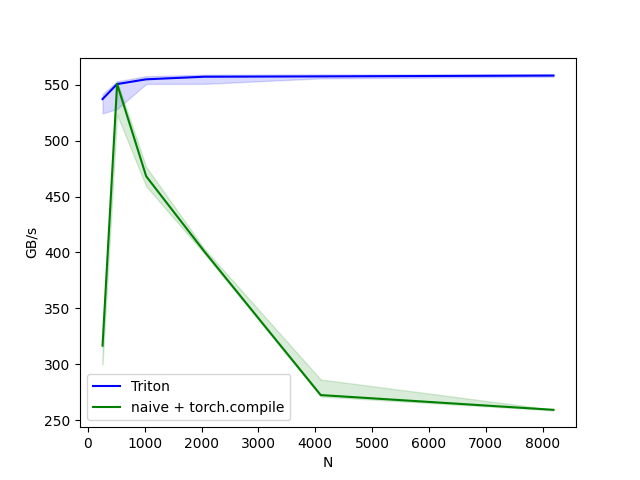
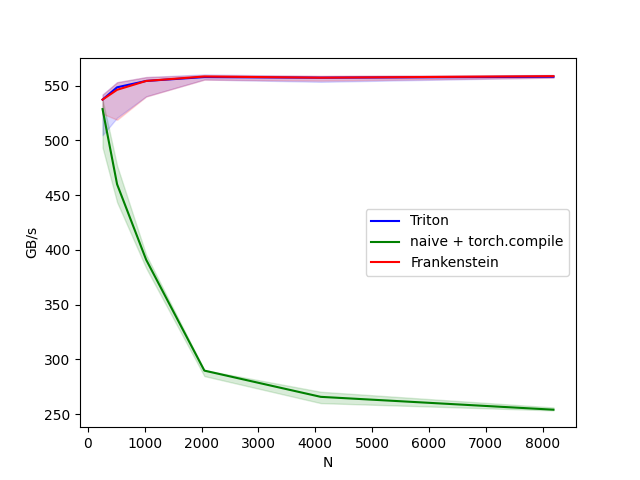
resid minimally functions. saves 140MB of vram but adds 10ms per step. need to figure out how to do a frankenstein version that saves both

diff --git a/benchmarks/results.html b/benchmarks/results.html
@@ -1,0 +1,6 @@
+<html><body>
+<image src="resid_fwd_fp16.png"/>
+<image src="resid_fwd_fp32.png"/>
+<image src="resid_bwd_fp16.png"/>
+<image src="resid_bwd_fp32.png"/>
+</body></html>

diff --git a/kernels/resid.py b/kernels/resid.py
@@ -9,6 +9,9 @@ import torch.nn.functional as F
 import torch._dynamo
 torch._dynamo.config.cache_size_limit = 64  # Increase from default of 8
 
+# fixes issue w frankenstein not keeping autograd graph during benchmark
+torch._functorch.config.donated_buffer=False
+
 import triton
 import triton.language as tl
 
@@ -16,7 +19,10 @@ from torch.library import triton_op, wrap_triton
 
 DEVICE = torch.device(f'cuda:{torch.cuda.current_device()}')
 
-from cos_norm import cosine_norm_forward_naive, cosine_norm_backward_naive
+try:
+    from .cos_norm import cosine_norm_forward_naive, cosine_norm_backward_naive
+except Exception as e:
+    from cos_norm import cosine_norm_forward_naive, cosine_norm_backward_naive
 
 @torch.compile
 def resid_fwd_naive(h, h_eigen, alpha):
@@ -44,25 +50,28 @@ def resid_bwd_naive(h, h_eigen, alpha, grad_output):
         grad_h_eigen: gradient for h_eigen
         grad_alpha: gradient for alpha
     """
-    with torch.no_grad():
-        # Forward pass computations we need
-        h_eigen_normed = cosine_norm_forward_naive(h_eigen)
-        residual = h + alpha * (h_eigen_normed - h)
-        
-        # Backward pass through the final normalization
-        grad_residual = cosine_norm_backward_naive(residual, grad_output)
-        
-        # Gradients for the residual connection components
-        grad_h = grad_residual * (1 - alpha)
-        grad_h_eigen_normed = grad_residual * alpha
-        
-        # Backward pass through the first normalization (h_eigen)
-        grad_h_eigen = cosine_norm_backward_naive(h_eigen, grad_h_eigen_normed)
-        
-        # Compute gradient for alpha - reshape to match alpha's shape (N)
-        grad_alpha = torch.sum(grad_residual * (h_eigen_normed - h), dim=0)
+    # Forward pass computations we need
+    h_eigen_normed = cosine_norm_forward_naive(h_eigen)
+    residual = h + alpha * (h_eigen_normed - h)
+    
+    # Backward pass through the final normalization
+    grad_residual = cosine_norm_backward_naive(residual, grad_output)
+    
+    # Gradients for the residual connection components
+    grad_h = grad_residual * (1 - alpha)
+    grad_h_eigen_normed = grad_residual * alpha
+    
+    # Backward pass through the first normalization (h_eigen)
+    grad_h_eigen = cosine_norm_backward_naive(h_eigen, grad_h_eigen_normed)
+    
+    # Compute gradient for alpha - reshape to match alpha's shape (N)
+    grad_alpha = torch.sum(grad_residual * (h_eigen_normed - h), dim=0)
     
     return grad_h, grad_h_eigen, grad_alpha
+
+
+
+
 
 
 @triton.jit
@@ -107,7 +116,7 @@ sram_per_sm = properties["max_shared_mem"]
 #@torch.compile(fullgraph=True)
 @triton_op("mylib::resid_fwd_triton", mutates_args={})
 def resid_fwd_triton(h: torch.Tensor, h_eigen: torch.Tensor, alpha: torch.Tensor) -> torch.Tensor:
-    assert all([x.device == DEVICE for x in [h, h_eigen, alpha]])
+    #assert all([x.device == DEVICE for x in [h, h_eigen, alpha]])
     assert h.shape == h_eigen.shape
     assert h.stride() == h_eigen.stride()
     assert alpha.shape[0] == h.shape[-1]
@@ -274,6 +283,63 @@ resid_fwd_triton.register_autograd(resid_bwd_triton, setup_context=resid_bwd_tri
 
 
 
+
+@triton_op("mylib::resid_fwd_frankenstein", mutates_args={})
+def resid_fwd_frankenstein(h: torch.Tensor, h_eigen: torch.Tensor, alpha: torch.Tensor) -> torch.Tensor:
+    #assert all([x.device == DEVICE for x in [h, h_eigen, alpha]])
+    assert h.shape == h_eigen.shape
+    assert h.stride() == h_eigen.stride()
+    assert alpha.shape[0] == h.shape[-1]
+    M, N = h.reshape(-1, h.shape[-1]).shape
+
+    # this kernel is designed for normalizing vectors that fit in SRAM
+    max_entries = sram_per_sm // h.element_size()
+    block_size = triton.next_power_of_2(N)
+    assert max_entries >= block_size, f"cosine norm kernel only supports vectors up to {max_entries}"
+    # H100s have 256kb of SRAM per SM so this would fit a model dimension of 64 thousand at fp32, plenty
+
+    # pre-allocate output
+    out = torch.empty_like(h)
+
+    wrap_triton(resid_fwd_kernel)[(M,)](
+        h, h_eigen, alpha, out,
+        h.stride(-2), h.stride(-1),
+        N,
+        BLOCK_SIZE=block_size
+    )
+
+    return out
+
+def resid_bwd_frankenstein(ctx, dLdout):
+    h, h_eigen, alpha, out = ctx.saved_tensors
+    
+    #with torch.no_grad():
+    # Forward pass computations we need
+    h_eigen_normed = cosine_norm_forward_naive(h_eigen)
+    residual = h + alpha * (h_eigen_normed - h)
+    
+    # Backward pass through the final normalization
+    dLdresidual = cosine_norm_backward_naive(residual, dLdout)
+    
+    # Gradients for the residual connection components
+    dLdh = dLdresidual * (1 - alpha)
+    dLdh_eigen_normed = dLdresidual * alpha
+    
+    # Backward pass through the first normalization (h_eigen)
+    dLdh_eigen = cosine_norm_backward_naive(h_eigen, dLdh_eigen_normed)
+    
+    # Compute gradient for alpha - reshape to match alpha's shape (N)
+    dLdalpha = torch.sum(dLdresidual * (h_eigen_normed - h), dim=0)
+
+    return dLdh, dLdh_eigen, dLdalpha
+
+def resid_bwd_frankenstein_setup_context(ctx, inputs, output):
+    h, h_eigen, alpha = inputs
+    ctx.save_for_backward(h, h_eigen, alpha, output)
+
+resid_fwd_frankenstein.register_autograd(resid_bwd_frankenstein, setup_context=resid_bwd_frankenstein_setup_context)
+
+
 def create_diff_heatmap(expected, actual, M, N, dtype, test_name, atol):
     """Create a heatmap visualization for gradient differences"""
     import os
@@ -354,15 +420,6 @@ def test_resid_bwd(M, N, dtype, device=DEVICE, atol=5e-2, rtol=0):
     # Gradient from upstream
     grad_output = torch.randn((M, N), dtype=dtype, device=device)
     
-    # Method 1: PyTorch autograd backward
-    # Create a differentiable version of the forward pass
-    def forward_differentiable(h, h_eigen, alpha):
-        # Same logic as resid_fwd_naive but without torch.no_grad()
-        h_eigen_normed = h_eigen / torch.clamp(torch.norm(h_eigen, dim=-1, keepdim=True), min=1e-12)
-        residual = h + alpha * (h_eigen_normed - h)
-        out = residual / torch.clamp(torch.norm(residual, dim=-1, keepdim=True), min=1e-12)
-        return out
-    
     # Clone inputs for autograd
     h_auto = h.clone().detach().requires_grad_(True)
     h_eigen_auto = h_eigen.clone().detach().requires_grad_(True)
@@ -372,7 +429,7 @@ def test_resid_bwd(M, N, dtype, device=DEVICE, atol=5e-2, rtol=0):
     alpha_tri = alpha.clone().detach().requires_grad_(True)
     
     # Forward pass
-    output_auto = forward_differentiable(h_auto, h_eigen_auto, alpha_auto)
+    output_auto = resid_fwd_naive(h_auto, h_eigen_auto, alpha_auto)
     output_triton = resid_fwd_triton(h_tri, h_eigen_tri, alpha_tri)
     
     # Backward pass
@@ -449,9 +506,9 @@ for mode in ["fwd", "bwd"]:
                 x_names=['N'],
                 x_vals=[2 ** i for i in range(8, previous_power_two(sram_per_sm // dtype_bytes))], 
                 line_arg='provider',
-                line_vals=['triton', 'naive'],
-                line_names=['Triton', 'naive + torch.compile'],
-                styles=[('blue', '-'), ('green', '-')],
+                line_vals=['triton', 'naive', 'frankenstein'],
+                line_names=['Triton', 'naive + torch.compile', 'Frankenstein'],
+                styles=[('blue', '-'), ('green', '-'), ('red', '-')],
                 ylabel='GB/s',
                 plot_name=f'resid_{mode}_fp{8*dtype_bytes}',
                 args={"mode": mode, "dtype_bytes": dtype_bytes}, 
@@ -472,6 +529,8 @@ def benchmark(N, provider, mode, dtype_bytes, device=DEVICE):
         fn = lambda: resid_fwd_triton(h, h_eigen, alpha)
     if provider == "naive":
         fn = lambda: resid_fwd_naive(h, h_eigen, alpha)
+    if provider == 'frankenstein':
+        fn = lambda: resid_fwd_frankenstein(h, h_eigen, alpha)
     elif mode == "bwd":
         y = fn()
         dLdy = torch.randn_like(y)
@@ -485,6 +544,7 @@ def benchmark(N, provider, mode, dtype_bytes, device=DEVICE):
 
 
 if __name__ == "__main__":
+    
     # always run unit-tests
     test_resid_fwd(64, 64, torch.float32)
     test_resid_fwd(64, 64, torch.float16)
@@ -500,6 +560,7 @@ if __name__ == "__main__":
     test_resid_bwd(2048, 768, torch.float16)
     test_resid_bwd(2048, 8192, torch.float32)
     test_resid_bwd(2048, 8192, torch.float16)
+    
 
     # Only run benchmark if explicitly requested
     import sys

diff --git a/train_ngpt_triton.py b/train_ngpt_triton.py
@@ -26,7 +26,11 @@ from torch.nn.attention.flex_attention import BlockMask, flex_attention, create_
 # -----------------------------------------------------------------------------
 # PyTorch nn.Module definitions for the model
 
-from kernels.cos_norm import cosine_norm_triton, cosine_norm_triton_
+from kernels.cos_norm import cosine_norm_triton_ as cosine_norm_inplace_
+from kernels.cos_norm import cosine_norm_triton as cosine_norm
+#from kernels.resid import resid_fwd_naive as resid
+from kernels.resid import resid_fwd_triton as resid
+#from kernels.resid import resid_fwd_frankenstein as resid # out of VRAM error bc of bwd
 
 class Scale(nn.Module):
     """
@@ -43,7 +47,7 @@ class Scale(nn.Module):
         super().__init__()
         self.init = init
         self.scale = scale
-        self.s = nn.Parameter(torch.ones(heads, dim) * scale)
+        self.s = nn.Parameter((torch.ones(heads, dim) if heads > 1 else torch.ones(dim)) * scale)
             # heads == 1 gives us a single regular vector
             # heads > 1 gets used in attention mechanism for different scaling vector for each head
     
@@ -102,8 +106,8 @@ class CausalSelfAttention(nn.Module):
         v = v.view(B, T, self.num_heads, self.head_dim)
         # normalizing & scaling our queries  & keys (see page 4)
         s_qk = self.s_qk() # (num_heads, head_dim)
-        q = cosine_norm_triton(q) * s_qk # then scale each head
-        k = cosine_norm_triton(k) * s_qk # no shape change
+        q = cosine_norm(q) * s_qk # then scale each head
+        k = cosine_norm(k) * s_qk # no shape change
         # apply RoPE
         q, k = self.rotary(q), self.rotary(k)
         # the meat of the attention calculation
@@ -153,10 +157,12 @@ class Block(nn.Module):
         self.alpha_M = Scale(dim, init = 0.05, scale = 1. / math.sqrt(dim))
 
     def forward(self, x: Tensor, block_mask: BlockMask):
-        x_A = cosine_norm_triton(self.attn(x, block_mask))
-        x = cosine_norm_triton(x + self.alpha_A() * (x_A - x))
-        x_M = cosine_norm_triton(self.mlp(x))
-        x = cosine_norm_triton(x + self.alpha_M() * (x_M - x))
+        #x_A = cosine_norm(self.attn(x, block_mask))
+        #x = cosine_norm(x + self.alpha_A() * (x_A - x))
+        x = resid(x, self.attn(x, block_mask), self.alpha_A())
+        #x_M = cosine_norm(self.mlp(x))
+        #x = cosine_norm(x + self.alpha_M() * (x_M - x))
+        x = resid(x, self.mlp(x), self.alpha_M())
         return x
 
 # -----------------------------------------------------------------------------
@@ -250,7 +256,7 @@ class GPT(nn.Module):
         
         if dim_to_normalize is not None:
             # Normalize the weights in-place
-            cosine_norm_triton_(module.weight.data, dim=dim_to_normalize)
+            cosine_norm_inplace_(module.weight.data, dim=dim_to_normalize)
 
     def enforce_constraints(self):
         """
@@ -626,7 +632,7 @@ if master_process:
     # check to make sure abs val & cos norm actually worked
     # checking to make sure the absolute value-ing worked
     print0("-"*10 + " making sure assertions worked " + "-"*10, console=True)
-    print0(model.blocks[0].alpha_A.s.data[0,:5], console=True)
+    print0(model.blocks[0].alpha_A.s.data[:5], console=True)
     # checking to make sure the cosine normalization worked
     print0(model.blocks[0].mlp.Wup.weight.norm(dim=1)[:5], console=True)
     print0(model.embed.weight.norm(dim=1)[:5], console=True)

diff --git a/kernels/cos_norm.py b/kernels/cos_norm.py
@@ -13,11 +13,10 @@ DEVICE = torch.device(f'cuda:{torch.cuda.current_device()}')
 @torch.compile
 def cosine_norm_forward_naive(x: torch.Tensor, dim: int = -1) -> torch.Tensor:
     """Places vectors onto the unit-hypersphere"""
-    with torch.no_grad():
-        # calculate the magnitude of the vectors
-        norm = torch.norm(x, p=2, dim=dim, keepdim=True).clamp(min=1e-12)
-        # divide by the magnitude to place on the unit hypersphere
-        return x / norm
+    # calculate the magnitude of the vectors
+    norm = torch.norm(x, p=2, dim=dim, keepdim=True).clamp(min=1e-12)
+    # divide by the magnitude to place on the unit hypersphere
+    return x / norm
 
 @torch.compile
 def cosine_norm_backward_naive(x: torch.Tensor, grad_output: torch.Tensor, dim: int = -1) -> torch.Tensor:
@@ -26,17 +25,16 @@ def cosine_norm_backward_naive(x: torch.Tensor, grad_output: torch.Tensor, dim: 
     The gradient is: grad_input = (grad_output - y * sum(y * grad_output)) / norm
     where y is the normalized output.
     """
-    with torch.no_grad():
-        norm = torch.norm(x, p=2, dim=dim, keepdim=True).clamp(min=1e-12)
-        y = x / norm
-        
-        # Compute sum(y * grad_output) along specified dimension
-        grad_dot_y = torch.sum(y * grad_output, dim=dim, keepdim=True)
-        
-        # Compute the gradient
-        grad_input = (grad_output - y * grad_dot_y) / norm
-        
-        return grad_input
+    norm = torch.norm(x, p=2, dim=dim, keepdim=True).clamp(min=1e-12)
+    y = x / norm
+    
+    # Compute sum(y * grad_output) along specified dimension
+    grad_dot_y = torch.sum(y * grad_output, dim=dim, keepdim=True)
+    
+    # Compute the gradient
+    grad_input = (grad_output - y * grad_dot_y) / norm
+    
+    return grad_input
 
 
 @triton.jit
